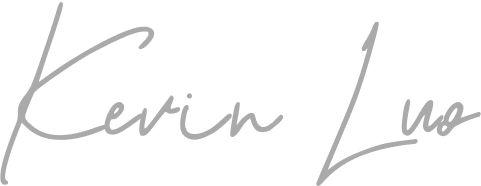
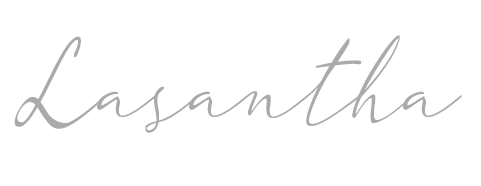
Adding chef image

Changed region(s): [[0.0, 0.0, 1.0, 1.0], [0.1559, 0.5914, 0.1871, 0.6452]]

diff --git a/src/container/Chef/Chef.jsx b/src/container/Chef/Chef.jsx
@@ -8,27 +8,25 @@ const Chef = () => (
       <img src={images.chef} alt="chef_image" />
     </div>
     <div className="app__wrapper_info">
-      <SubHeading title="Chef's word" />
+      <SubHeading title="Owner's word" />
       <h1 className="headtext__cormorant">What we believe in</h1>
 
       <div className="app__chef-content">
         <div className="app__chef-content_quote">
           <img src={images.quote} alt="quote_image" />
           <p className="p__opensans">
-            Lorem ipsum dolor sit amet, consectetur adipiscing elit auctor sit .
+          At Le Bella 1912, we believe in the art of hospitality, where every guest is welcomed with warmth and treated with care.
           </p>
         </div>
         <p className="p__opensans">
           {" "}
-          auctor sit iaculis in arcu. Vulputate nulla lobortis mauris eget sit.
-          Nulla scelerisque scelerisque congue ac consequat, aliquam molestie
-          lectus eu. Congue iaculis integer curabitur semper sit nunc.{" "}
+          We believe in the joy of sharing good food with loved ones, creating moments that linger in memory. Our belief in quality, creativity, and community drives us to create exceptional dining experiences for all.{" "}
         </p>
       </div>
 
       <div className="app__chef-sign">
-        <p>Kevin Luo</p>
-        <p className="p__opensans">Chef & Founder</p>
+        <p>Lasantha</p>
+        <p className="p__opensans">Owner & Founder</p>
         <img src={images.sign} alt="sign_image" />
       </div>
     </div>
